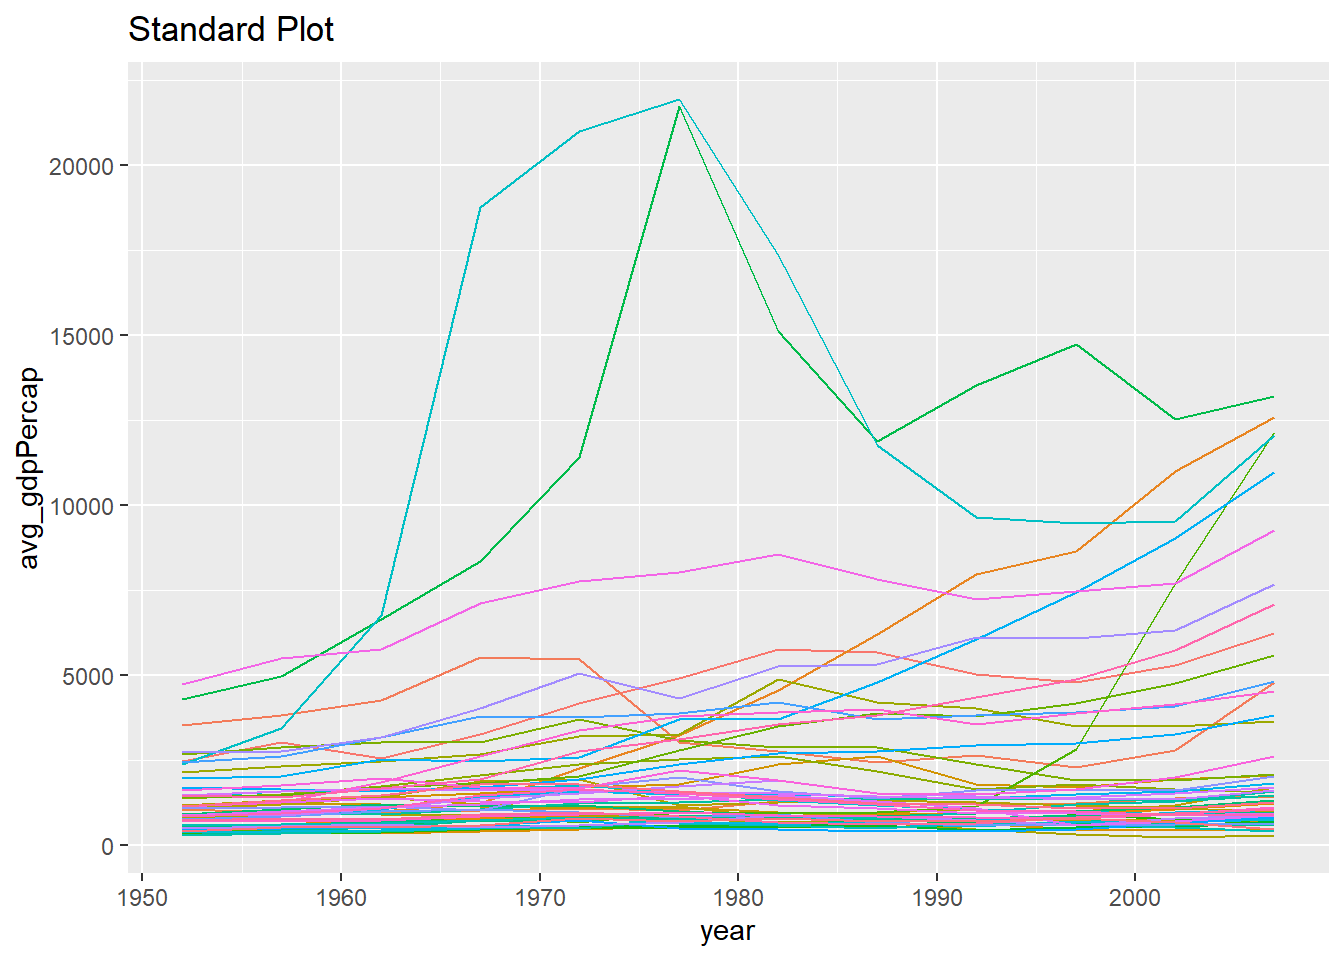
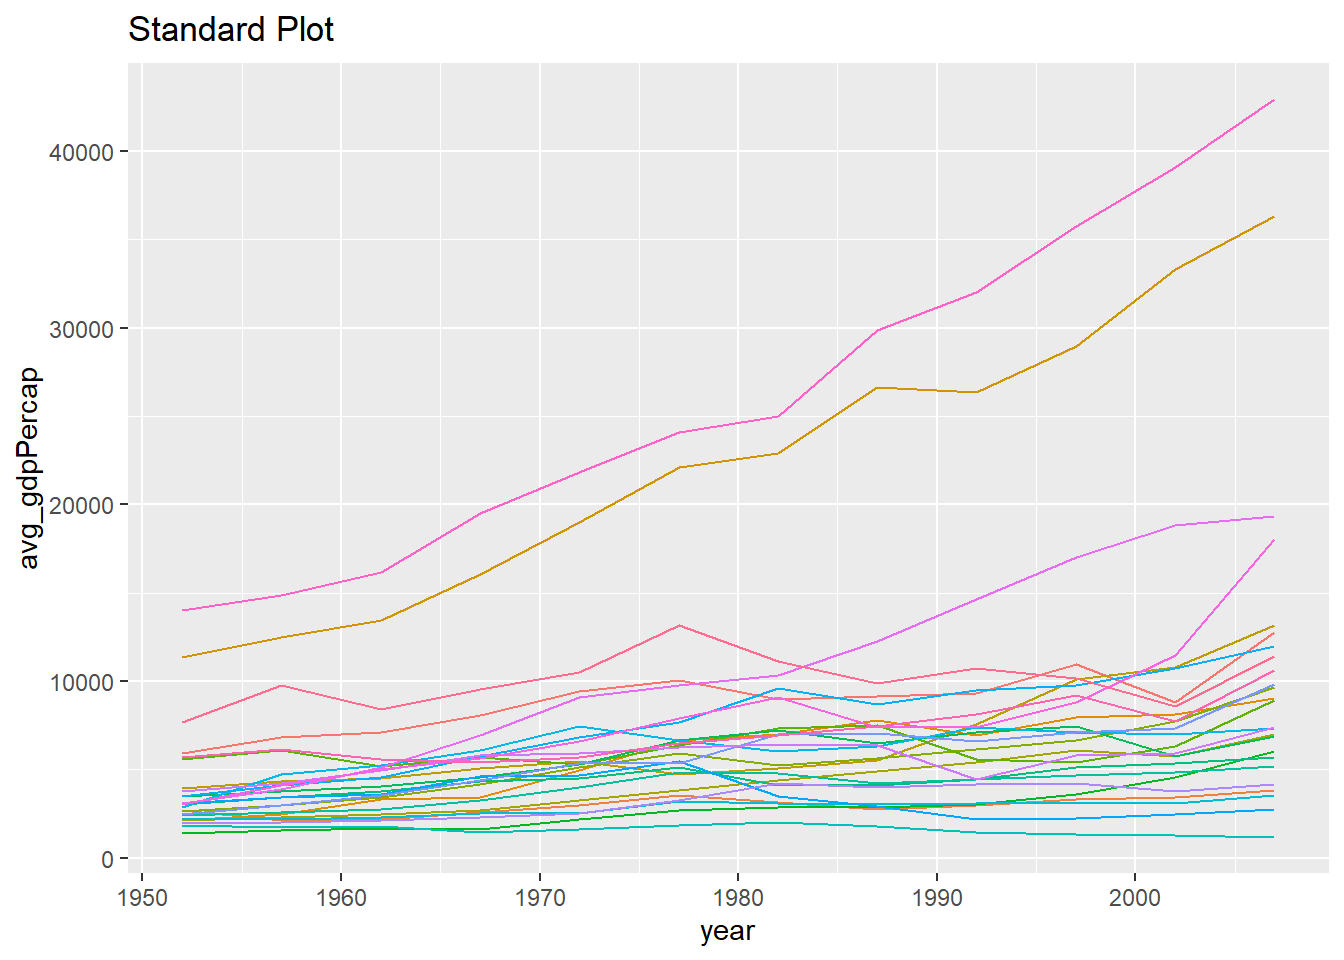
BC

diff --git a/lesson3_ggplot-facets.html b/lesson3_ggplot-facets.html
@@ -375,7 +375,7 @@ globalThis.qwebrCustomizedWebROptions = {
 };
 
 // Store cell data
-globalThis.qwebrCellDetails = [{"code":"library(tidyverse)\nlibrary(gapminder)\n\ndf <- gapminder\n\ndf1 <- df |> \n  group_by(continent, year) |> \n  summarize(avg_gdpPercap = mean(gdpPercap))\n\nggplot(df1) +\n  geom_line(aes(x = year, y = avg_gdpPercap, color = continent))\n\n#now facet this into multiple plots","options":{"editor-font-scale":"1","results":"markup","out-width":"700px","autorun":"false","dpi":72,"message":"true","context":"interactive","fig-width":7,"classes":"","out-height":"","read-only":"false","fig-cap":"","editor-max-height":"","comment":"","editor-quick-suggestions":"false","editor-word-wrap":"true","label":"unnamed-chunk-1","warning":"true","fig-height":5,"output":"true"},"id":1}];
+globalThis.qwebrCellDetails = [{"id":1,"options":{"autorun":"false","editor-word-wrap":"true","output":"true","fig-cap":"","editor-quick-suggestions":"false","out-height":"","message":"true","editor-font-scale":"1","context":"interactive","out-width":"700px","results":"markup","warning":"true","classes":"","comment":"","dpi":72,"label":"unnamed-chunk-1","fig-height":5,"read-only":"false","fig-width":7,"editor-max-height":""},"code":"library(tidyverse)\nlibrary(gapminder)\n\ndf <- gapminder\n\ndf1 <- df |> \n  group_by(continent, year) |> \n  summarize(avg_gdpPercap = mean(gdpPercap))\n\nggplot(df1) +\n  geom_line(aes(x = year, y = avg_gdpPercap, color = continent))\n\n#now facet this into multiple plots"}];
 
 </script>
 <script type="module">
@@ -2082,28 +2082,33 @@ globalThis.qwebrCreateMonacoEditorInstance = function (cellData) {
 </div>
 </div>
 <p>Here’s another example that takes the data for one continent and facets it by country.</p>
-<div class="tabset-margin-container"></div><div class="panel-tabset">
-<ul class="nav nav-tabs" role="tablist"><li class="nav-item" role="presentation"><a class="nav-link active" id="tabset-1-1-tab" data-bs-toggle="tab" data-bs-target="#tabset-1-1" role="tab" aria-controls="tabset-1-1" aria-selected="true" href="">Standard Plot</a></li><li class="nav-item" role="presentation"><a class="nav-link" id="tabset-1-2-tab" data-bs-toggle="tab" data-bs-target="#tabset-1-2" role="tab" aria-controls="tabset-1-2" aria-selected="false" href="">Facetted Plot</a></li></ul>
-<div class="tab-content">
-<div id="tabset-1-1" class="tab-pane active" role="tabpanel" aria-labelledby="tabset-1-1-tab">
+<p>First, we do a little data wrangling. Then, we plot.</p>
 <div class="cell">
 <div class="sourceCode cell-code" id="cb12"><pre class="sourceCode r code-with-copy"><code class="sourceCode r"><span id="cb12-1"><a href="#cb12-1" aria-hidden="true" tabindex="-1"></a><span class="co">#| class-output: pre</span></span>
 <span id="cb12-2"><a href="#cb12-2" aria-hidden="true" tabindex="-1"></a></span>
-<span id="cb12-3"><a href="#cb12-3" aria-hidden="true" tabindex="-1"></a><span class="co">#Filtr</span></span>
+<span id="cb12-3"><a href="#cb12-3" aria-hidden="true" tabindex="-1"></a><span class="co">#Filter</span></span>
 <span id="cb12-4"><a href="#cb12-4" aria-hidden="true" tabindex="-1"></a>df2 <span class="ot">&lt;-</span> df <span class="sc">|&gt;</span> </span>
-<span id="cb12-5"><a href="#cb12-5" aria-hidden="true" tabindex="-1"></a>  <span class="fu">filter</span>(continent <span class="sc">==</span> <span class="st">"Africa"</span>) <span class="sc">|&gt;</span></span>
+<span id="cb12-5"><a href="#cb12-5" aria-hidden="true" tabindex="-1"></a>  <span class="fu">filter</span>(continent <span class="sc">==</span> <span class="st">"Americas"</span>) <span class="sc">|&gt;</span></span>
 <span id="cb12-6"><a href="#cb12-6" aria-hidden="true" tabindex="-1"></a>  <span class="fu">group_by</span>(country, year) <span class="sc">|&gt;</span> </span>
 <span id="cb12-7"><a href="#cb12-7" aria-hidden="true" tabindex="-1"></a>  <span class="fu">summarize</span>(<span class="at">avg_gdpPercap =</span> <span class="fu">mean</span>(gdpPercap))</span></code><button title="Copy to Clipboard" class="code-copy-button"><i class="bi"></i></button></pre></div>
 <div class="cell-output cell-output-stderr">
 <pre><code>`summarise()` has grouped output by 'country'. You can override using the
 `.groups` argument.</code></pre>
 </div>
-<div class="sourceCode cell-code" id="cb14"><pre class="sourceCode r code-with-copy"><code class="sourceCode r"><span id="cb14-1"><a href="#cb14-1" aria-hidden="true" tabindex="-1"></a>plot_afr <span class="ot">&lt;-</span> <span class="fu">ggplot</span>(df2) <span class="sc">+</span></span>
-<span id="cb14-2"><a href="#cb14-2" aria-hidden="true" tabindex="-1"></a>  <span class="fu">geom_line</span>(<span class="fu">aes</span>(<span class="at">x =</span> year, <span class="at">y =</span> avg_gdpPercap, <span class="at">color =</span> country)) <span class="sc">+</span></span>
-<span id="cb14-3"><a href="#cb14-3" aria-hidden="true" tabindex="-1"></a>  <span class="fu">labs</span>(<span class="at">title =</span> <span class="st">"Standard Plot"</span>) <span class="sc">+</span></span>
-<span id="cb14-4"><a href="#cb14-4" aria-hidden="true" tabindex="-1"></a>  <span class="fu">theme</span>(<span class="at">legend.position =</span> <span class="st">"none"</span>)</span>
-<span id="cb14-5"><a href="#cb14-5" aria-hidden="true" tabindex="-1"></a></span>
-<span id="cb14-6"><a href="#cb14-6" aria-hidden="true" tabindex="-1"></a>plot_afr</span></code><button title="Copy to Clipboard" class="code-copy-button"><i class="bi"></i></button></pre></div>
+</div>
+<div class="tabset-margin-container"></div><div class="panel-tabset">
+<ul class="nav nav-tabs" role="tablist"><li class="nav-item" role="presentation"><a class="nav-link active" id="tabset-1-1-tab" data-bs-toggle="tab" data-bs-target="#tabset-1-1" role="tab" aria-controls="tabset-1-1" aria-selected="true" href="">Standard Plot</a></li><li class="nav-item" role="presentation"><a class="nav-link" id="tabset-1-2-tab" data-bs-toggle="tab" data-bs-target="#tabset-1-2" role="tab" aria-controls="tabset-1-2" aria-selected="false" href="">Facetted Plot</a></li></ul>
+<div class="tab-content">
+<div id="tabset-1-1" class="tab-pane active" role="tabpanel" aria-labelledby="tabset-1-1-tab">
+<div class="cell">
+<div class="sourceCode cell-code" id="cb14"><pre class="sourceCode r code-with-copy"><code class="sourceCode r"><span id="cb14-1"><a href="#cb14-1" aria-hidden="true" tabindex="-1"></a><span class="co">#| class-output: pre</span></span>
+<span id="cb14-2"><a href="#cb14-2" aria-hidden="true" tabindex="-1"></a></span>
+<span id="cb14-3"><a href="#cb14-3" aria-hidden="true" tabindex="-1"></a>plot_amer <span class="ot">&lt;-</span> <span class="fu">ggplot</span>(df2) <span class="sc">+</span></span>
+<span id="cb14-4"><a href="#cb14-4" aria-hidden="true" tabindex="-1"></a>  <span class="fu">geom_line</span>(<span class="fu">aes</span>(<span class="at">x =</span> year, <span class="at">y =</span> avg_gdpPercap, <span class="at">color =</span> country)) <span class="sc">+</span></span>
+<span id="cb14-5"><a href="#cb14-5" aria-hidden="true" tabindex="-1"></a>  <span class="fu">labs</span>(<span class="at">title =</span> <span class="st">"Standard Plot"</span>) <span class="sc">+</span></span>
+<span id="cb14-6"><a href="#cb14-6" aria-hidden="true" tabindex="-1"></a>  <span class="fu">theme</span>(<span class="at">legend.position =</span> <span class="st">"none"</span>)</span>
+<span id="cb14-7"><a href="#cb14-7" aria-hidden="true" tabindex="-1"></a></span>
+<span id="cb14-8"><a href="#cb14-8" aria-hidden="true" tabindex="-1"></a>plot_amer</span></code><button title="Copy to Clipboard" class="code-copy-button"><i class="bi"></i></button></pre></div>
 <div class="cell-output-display">
 <div>
 <figure class="figure">
@@ -2115,14 +2120,15 @@ globalThis.qwebrCreateMonacoEditorInstance = function (cellData) {
 </div>
 <div id="tabset-1-2" class="tab-pane" role="tabpanel" aria-labelledby="tabset-1-2-tab">
 <div class="cell">
-<div class="sourceCode cell-code" id="cb15"><pre class="sourceCode r code-with-copy"><code class="sourceCode r"><span id="cb15-1"><a href="#cb15-1" aria-hidden="true" tabindex="-1"></a>plot_afr <span class="sc">+</span> </span>
+<div class="sourceCode cell-code" id="cb15"><pre class="sourceCode r code-with-copy"><code class="sourceCode r"><span id="cb15-1"><a href="#cb15-1" aria-hidden="true" tabindex="-1"></a>plot_amer <span class="sc">+</span> </span>
 <span id="cb15-2"><a href="#cb15-2" aria-hidden="true" tabindex="-1"></a>  <span class="fu">facet_wrap</span>(<span class="at">facets =</span> df2<span class="sc">$</span>country) <span class="sc">+</span></span>
 <span id="cb15-3"><a href="#cb15-3" aria-hidden="true" tabindex="-1"></a>  <span class="fu">labs</span>(<span class="at">title =</span> <span class="st">"Facetted Plot"</span>) <span class="sc">+</span></span>
-<span id="cb15-4"><a href="#cb15-4" aria-hidden="true" tabindex="-1"></a>  <span class="fu">theme</span>(<span class="at">legend.position =</span> <span class="st">"none"</span>)</span></code><button title="Copy to Clipboard" class="code-copy-button"><i class="bi"></i></button></pre></div>
+<span id="cb15-4"><a href="#cb15-4" aria-hidden="true" tabindex="-1"></a>  <span class="fu">theme</span>(<span class="at">legend.position =</span> <span class="st">"none"</span></span>
+<span id="cb15-5"><a href="#cb15-5" aria-hidden="true" tabindex="-1"></a>        , <span class="at">axis.text.x =</span> <span class="fu">element_text</span>(<span class="at">angle =</span> <span class="dv">45</span>, <span class="at">vjust =</span> .<span class="dv">5</span>, <span class="at">hjust =</span> <span class="dv">1</span>))</span></code><button title="Copy to Clipboard" class="code-copy-button"><i class="bi"></i></button></pre></div>
 <div class="cell-output-display">
 <div>
 <figure class="figure">
-<p><img src="lesson3_ggplot-facets_files/figure-html/unnamed-chunk-2-1.png" class="img-fluid figure-img" width="672"></p>
+<p><img src="lesson3_ggplot-facets_files/figure-html/unnamed-chunk-3-1.png" class="img-fluid figure-img" width="672"></p>
 </figure>
 </div>
 </div>
